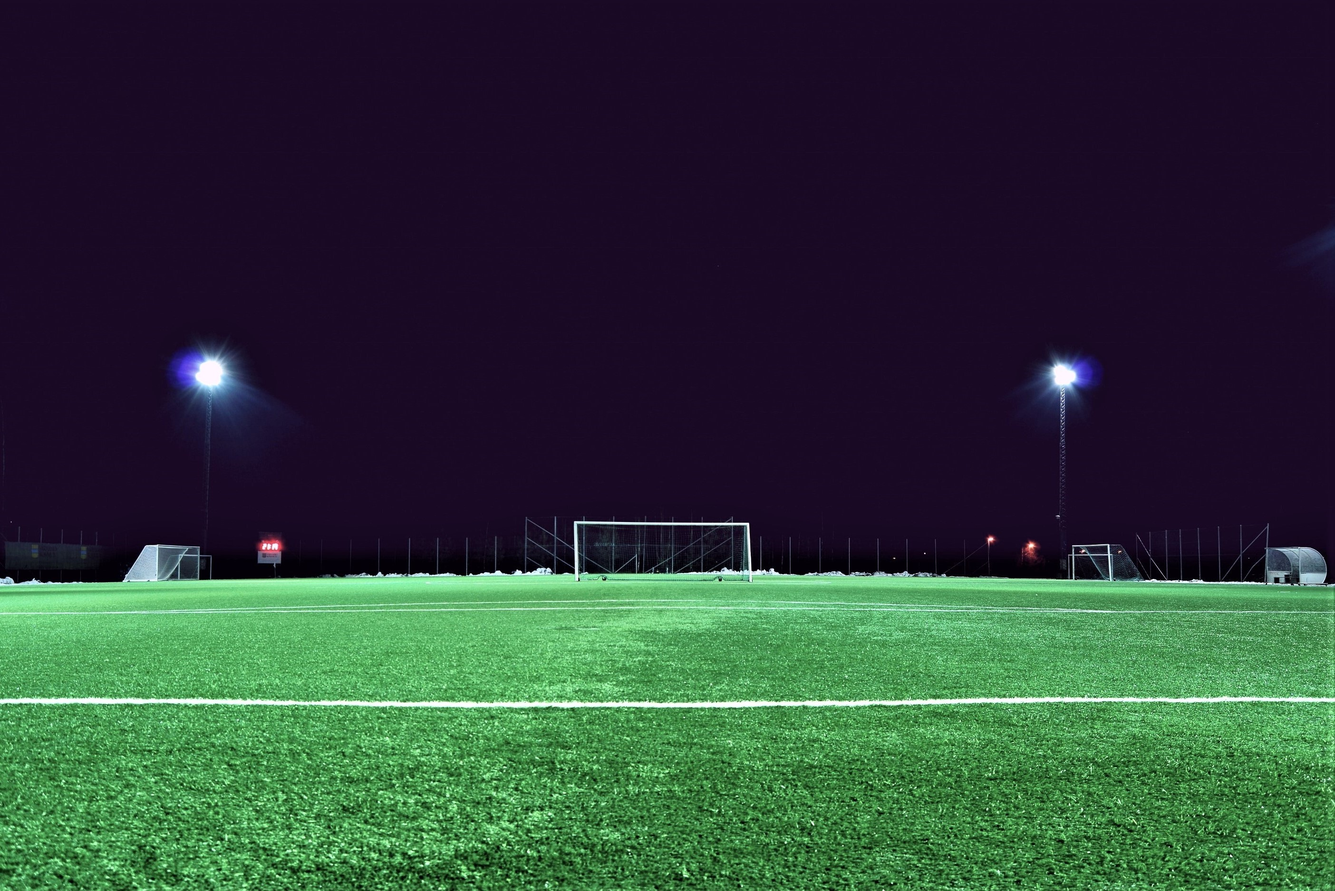
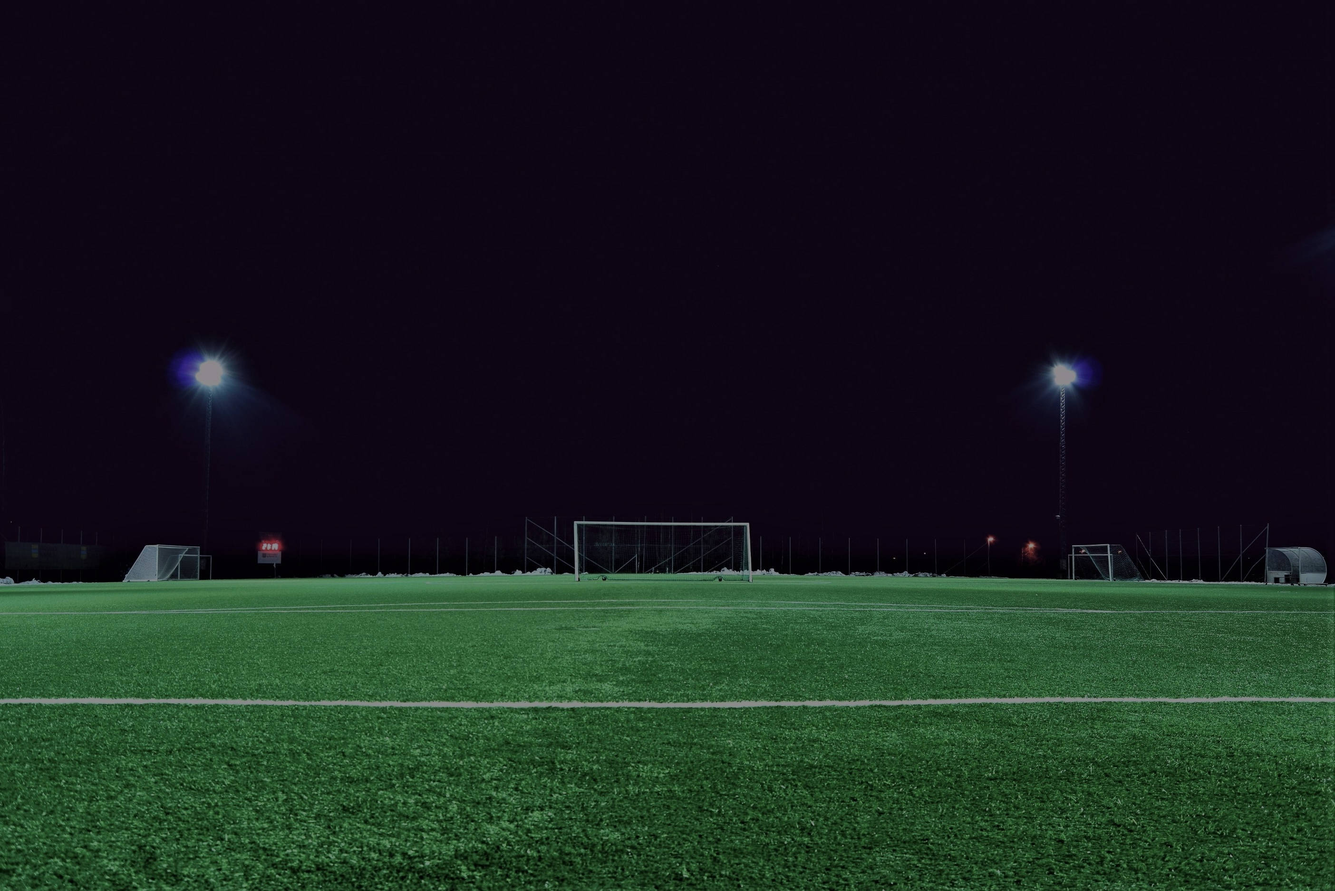
nareszcie wszędzie ciemniej, wszystko cacy

diff --git a/client/src/App.css b/client/src/App.css
@@ -90,10 +90,6 @@ img {
   color: #fff;
 }
 
-.alert.alert-danger {
-  margin: 1px;
-}
-
 /* Forms */
 .form .form-group {
   margin: 1.2rem 0;
@@ -167,7 +163,6 @@ button {
   z-index: 1;
   width: 100%;
   top: 0;
-  background-color: rgb(0, 0, 0, 0.6);
 }
 
 .navbar ul {
@@ -229,8 +224,6 @@ button {
   width: 100%;
   height: 100%;
   color: #fff;
-  background-color: rgb(0, 0, 0, 0.6);
-  padding-bottom: 30vh;
 }
 
 .logowanie3 {
@@ -268,7 +261,6 @@ button {
   width: 100%;
   height: 100%;
   color: #fff;
-  background-color: rgb(0, 0, 0, 0.6);
 }
 
 /* Landing Page */
@@ -283,14 +275,14 @@ button {
 }
 
 .toptop {
-  padding-top: 35vh;
-  padding-bottom: 35vh;
+  padding-top: 25vh;
+  /* padding-bottom: 35vh; */
 }
 
 @media (max-width: 679px) {
-  .toptop {
+  /* .toptop {
     padding-top: 20vh;
-  }
+  } */
   .landing {
     position: relative;
   }
@@ -520,8 +512,6 @@ a:hover {
   /* Navbar */
   .navbar {
     display: block;
-    background-color: rgb(0, 0, 0, 0.6);
-
     text-align: center;
   }
 

diff --git a/client/src/actions/alert.js b/client/src/actions/alert.js
@@ -1,7 +1,7 @@
 import uuid from 'uuid';
 import { SET_ALERT, REMOVE_ALERT } from './types';
 
-export const setAlert = (msg, alertType, timeout = 50000) => dispatch => {
+export const setAlert = (msg, alertType, timeout = 5000) => dispatch => {
   const id = uuid.v4();
   dispatch({
     type: SET_ALERT,
